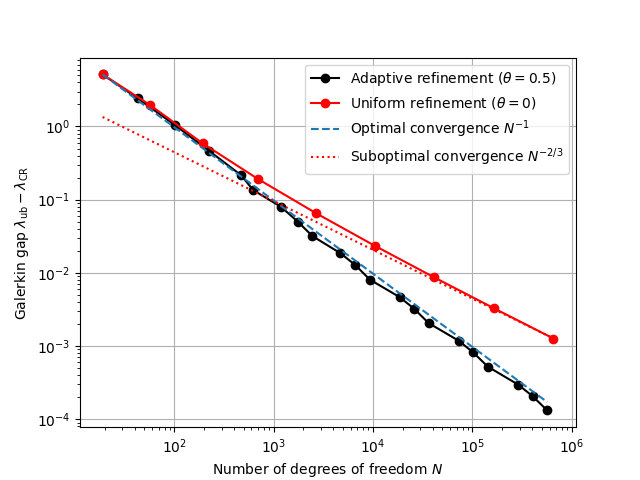
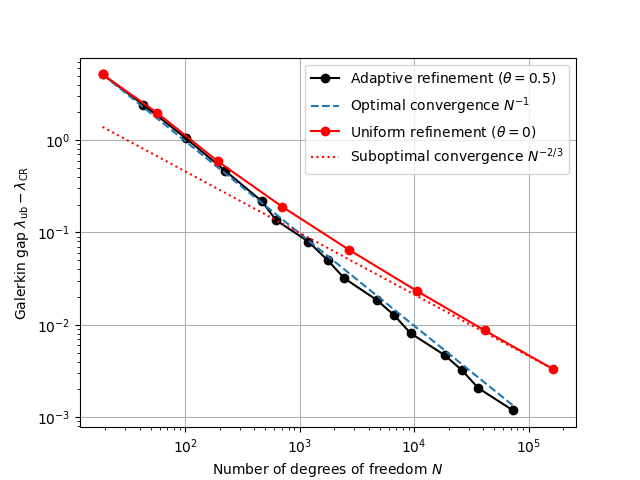
Demonstrate suboptimal scaling of uniform refinement

diff --git a/demos/poisson_adaptive_eigenvalue/poisson_adaptive_eigenvalue.py.rst b/demos/poisson_adaptive_eigenvalue/poisson_adaptive_eigenvalue.py.rst
@@ -29,7 +29,7 @@ We create a function to solve the eigenvalue problem for both continuous (CG) an
 .. math::
     \lambda_{\text{lb}} = \frac{\lambda_{\text{CR}}}{1 + \kappa_{\text{CR}}^2 h_{\max}^2 \lambda_{\text{CR}}}
 
-where :math:`\kappa_{\text{CR}} \approx 0.1893` is the constant established by Carstensen and Gedicke :cite:`CarstensenGedicke:2014`. A general theory for deriving lower bounds for eigenvalues with nonconforming methods has been developed by Hu et al. :cite:`Hu:2014`. We will use the postprocessed lower bound to terminate the adaptive iteration, while for technical reasons we will plot the Galerkin gap :math:`\lambda_{\text{ub}} - \lambda_{\text{CR}}` to demonstrate optimal convergence. ::
+where :math:`\kappa_{\text{CR}} \approx 0.1893` is the constant established by Carstensen and Gedicke :cite:`CarstensenGedicke:2014`. A general theory for deriving lower bounds for eigenvalues with nonconforming methods has been developed by Hu et al. :cite:`Hu:2014`. We will use the postprocessed lower bound to terminate the adaptive iteration, while for technical reasons we will plot the Galerkin gap :math:`\lambda_{\text{CG}} - \lambda_{\text{CR}}` to demonstrate optimal convergence. ::
 
   def solve_poisson(mesh):
       h_max = Function(FunctionSpace(mesh, "DG", 0)).interpolate(CellDiameter(mesh)).dat.data_ro.max()
@@ -128,32 +128,35 @@ Finally, we run the adaptive loop until the upper and lower bounds agree to with
 
       VTKFile(f"l_eigenfunction_{i}.pvd").write(uh)
 
-      if err < 2e-3 or dofs[-1] > 1000000:
+      if err < 1e-2 or dofs[-1] > 1000000:
           break
 
       eta, _ = estimate_error(mesh, uh, lam_ub)
       mesh = adapt(mesh, eta)
 
-To demonstrate that adaptivity is necessary to achieve the optimal convergence rate, we can run the same script with :math:`\theta = 0`, which forces uniform refinement (all cells are marked for refinement at every step). ::
+To demonstrate that adaptivity is necessary to achieve the optimal convergence rate, we can run the same script with :math:`\theta = 0`, which forces uniform refinement (all cells are marked for refinement at every step). We make this optional by guarding it behind the Boolean ``run_uniform``. ::
 
-  mesh_uniform = Mesh(ngmesh)
-  uniform_error_estimators = []
-  uniform_dofs = []
+  run_uniform = True
 
-  def adapt_uniform(mesh, eta):
-      markers = Function(FunctionSpace(mesh, "DG", 0)).assign(1.0)
-      return mesh.refine_marked_elements(markers)
+  if run_uniform:
+      mesh_uniform = Mesh(ngmesh)
+      uniform_error_estimators = []
+      uniform_dofs = []
 
-  for i in range(max_iterations):
-      lam_lb, lam_ub, lam_CR, uh = solve_poisson(mesh_uniform)
-      err = lam_ub - lam_lb
-      gap = lam_ub - lam_CR
-      uniform_error_estimators.append(gap)
-      uniform_dofs.append(uh.function_space().dim())
-      if err < 2e-3 or uniform_dofs[-1] > 1000000:
-          break
-      eta, _ = estimate_error(mesh_uniform, uh, lam_ub)
-      mesh_uniform = adapt_uniform(mesh_uniform, eta)
+      def adapt_uniform(mesh, eta):
+          markers = Function(FunctionSpace(mesh, "DG", 0)).assign(1.0)
+          return mesh.refine_marked_elements(markers)
+
+      for i in range(max_iterations):
+          lam_lb, lam_ub, lam_CR, uh = solve_poisson(mesh_uniform)
+          err = lam_ub - lam_lb
+          gap = lam_ub - lam_CR
+          uniform_error_estimators.append(gap)
+          uniform_dofs.append(uh.function_space().dim())
+          if err < 5e-3 or uniform_dofs[-1] > 1000000:
+              break
+          eta, _ = estimate_error(mesh_uniform, uh, lam_ub)
+          mesh_uniform = adapt_uniform(mesh_uniform, eta)
 
 We can plot the convergence of the Galerkin gap :math:`\lambda_{\text{ub}} - \lambda_{\text{CR}}` against the number of degrees of freedom. With adaptivity, we achieve the optimal :math:`O(N^{-1})` convergence rate. For uniform refinement, the error is initially dominated by the smooth part of the solution (yielding a pre-asymptotic :math:`O(N^{-1})` rate), but as the mesh is refined, the singularity inevitably dominates and limits the asymptotic convergence to the suboptimal rate of :math:`O(N^{-2/3})`. ::
 
@@ -163,11 +166,13 @@ We can plot the convergence of the Galerkin gap :math:`\lambda_{\text{ub}} - \la
 
       plt.grid()
       plt.loglog(dofs, error_estimators, '-ok', label=r"Adaptive refinement ($\theta = 0.5$)")
-      plt.loglog(uniform_dofs, uniform_error_estimators, '-or', label=r"Uniform refinement ($\theta = 0$)")
       scaling = error_estimators[0] / dofs[0]**-1
       plt.loglog(dofs, np.array(dofs)**(-1.0) * scaling, '--', label="Optimal convergence $N^{-1}$")
-      scaling_uniform = uniform_error_estimators[-1] / uniform_dofs[-1]**(-2.0/3.0)
-      plt.loglog(uniform_dofs, np.array(uniform_dofs)**(-2.0/3.0) * scaling_uniform, ':r', label=r"Suboptimal convergence $N^{-2/3}$")
+
+      if run_uniform:
+          plt.loglog(uniform_dofs, uniform_error_estimators, '-or', label=r"Uniform refinement ($\theta = 0$)")
+          scaling_uniform = uniform_error_estimators[-1] / uniform_dofs[-1]**(-2.0/3.0)
+          plt.loglog(uniform_dofs, np.array(uniform_dofs)**(-2.0/3.0) * scaling_uniform, ':r', label=r"Suboptimal convergence $N^{-2/3}$")
       plt.xlabel("Number of degrees of freedom $N$")
       plt.ylabel(r"Galerkin gap $\lambda_{\text{ub}} - \lambda_{\text{CR}}$")
       plt.legend()
